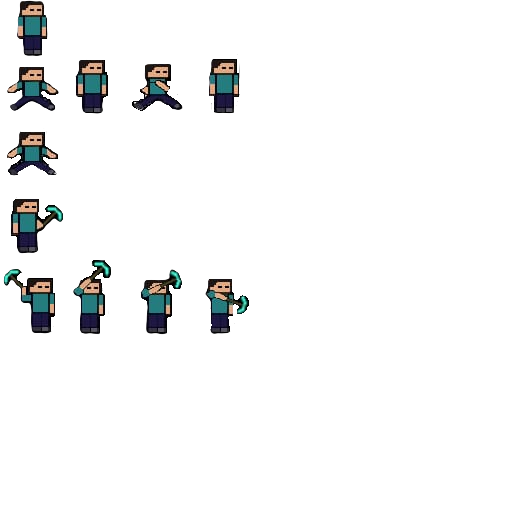
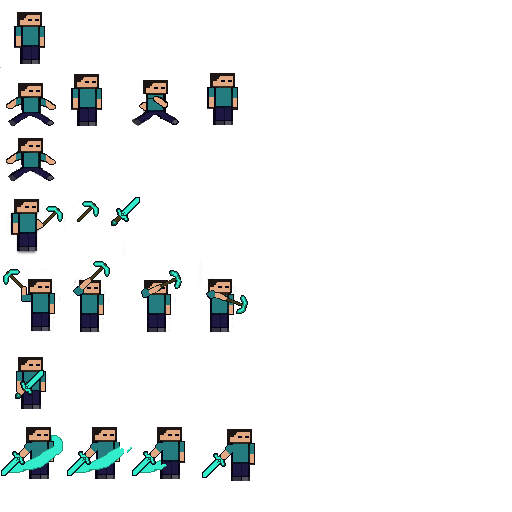
New charachter_sheet and solved charachter in air

diff --git a/SFMLMinecraft/Character.cpp b/SFMLMinecraft/Character.cpp
@@ -17,7 +17,7 @@ Character::Character(sf::Texture& texture)
     animations["slash2"] = Animation({ 64, 64 }, 4, 0.1f, 7);
     animations["shield"] = Animation({ 64, 64 }, 3, 0.12f, 8);
     animations["bow"] = Animation({ 64, 64 }, 3, 0.12f, 9);
-    animations["fall"] = Animation({ 64, 64 }, 1, 0.15f, 1);
+    animations["fall"] = Animation({ 64, 64 }, 1, 0.15f, 2);
 
     currentAnimation = "idle";
     sprite.setTextureRect(animations[currentAnimation].getTextureRect());
